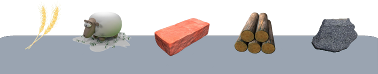
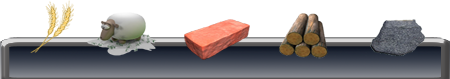
hud changes, clickable menu button

diff --git a/src/Expanze/Screens/GameplayScreen.cs b/src/Expanze/Screens/GameplayScreen.cs
@@ -37,6 +37,7 @@ namespace Expanze
         List<GameComponent> gameComponents = new List<GameComponent>();
         List<GuiComponent> guiComponents = new List<GuiComponent>();
 
+
         Vector2 playerPosition = new Vector2(100, 100);
         Vector2 enemyPosition = new Vector2(100, 100);
 
@@ -86,7 +87,7 @@ namespace Expanze
 
             ButtonComponent changeTurnButton = new ButtonComponent(ScreenManager.Game, ScreenManager.Game.GraphicsDevice.Viewport.Width - 180, ScreenManager.Game.GraphicsDevice.Viewport.Height - 50, GameState.gameFont, 150, 40, "button");
             guiComponents.Add(changeTurnButton);
-            ButtonComponent menuHUDButton = new ButtonComponent(ScreenManager.Game, 10, 10, GameState.gameFont, 232, 225, "menu_button");
+            MenuButtonComponent menuHUDButton = new MenuButtonComponent(ScreenManager.Game, 10, 10, GameState.gameFont, 232, 225, "menu_button");
             guiComponents.Add(menuHUDButton);
             MaterialsHUDComponent materialsHUDComp = new MaterialsHUDComponent(ScreenManager.Game, ScreenManager.Game.GraphicsDevice.Viewport.Width/4, ScreenManager.Game.GraphicsDevice.Viewport.Height - 78, GameState.gameFont, 232, 225, "suroviny_hud");
             guiComponents.Add(materialsHUDComp);
@@ -207,7 +208,7 @@ namespace Expanze
             bool gamePadDisconnected = !gamePadState.IsConnected &&
                                        input.GamePadWasConnected[playerIndex];
 
-            if (input.IsPauseGame(ControllingPlayer) || gamePadDisconnected)
+            if (input.IsPauseGame(ControllingPlayer) || gamePadDisconnected || GameMaster.getInstance().isPaused())
             {
                 ScreenManager.AddScreen(new PauseMenuScreen(), ControllingPlayer);
             }

diff --git a/src/Expanze/Gameplay/GameMaster.cs b/src/Expanze/Gameplay/GameMaster.cs
@@ -14,6 +14,7 @@ namespace Expanze
         private Player activePlayer;
         private int activePlayerIndex;
         private State state;
+        private bool paused = false;
 
         private static GameMaster instance = null;
 
@@ -62,6 +63,21 @@ namespace Expanze
             {
                 player.addSources(100, 100, 100, 100, 100);
             }
+        }
+
+        public bool isPaused()
+        {
+            if (this.paused)
+            {
+                this.paused = false;
+                return true;
+            }
+            return false;
+        }
+
+        public void setPaused()
+        {
+            this.paused = true;
         }
 
         public bool changeActivePlaye()

diff --git a/src/Expanze/Game/ButtonComponent.cs b/src/Expanze/Game/ButtonComponent.cs
@@ -10,13 +10,13 @@ namespace Expanze
 {
     class ButtonComponent : GuiComponent
     {
-        MouseState mouseState;
+        protected MouseState mouseState;
 
-        int mousex;
-        int mousey;
+        protected int mousex;
+        protected int mousey;
 
         //button still pressed
-        bool pressed = false;
+        protected bool pressed = false;
 
         public ButtonComponent(Game game, int x, int y, SpriteFont font, int width, int height, String texture) 
             : base(game,x,y,font,width,height,texture) {}

diff --git a/src/Expanze/Game/MaterialsHUDComponent.cs b/src/Expanze/Game/MaterialsHUDComponent.cs
@@ -12,8 +12,8 @@ namespace Expanze
     {
 
         //space between texts in HUD of materials
-        const int space = 80;
-        int start = 30;
+        const int space = 90;
+        int start = 40;
 
         public MaterialsHUDComponent(Game game, int x, int y, SpriteFont font, int width, int height, String texture) 
             : base(game,x,y,font,width,height,texture) {}

diff --git a/src/Expanze/Gameplay/SourceCost.cs b/src/Expanze/Gameplay/SourceCost.cs
@@ -3,7 +3,7 @@ using System.Collections.Generic;
 using System.Linq;
 using System.Text;
 
-namespace Expanze.Gameplay
+namespace Expanze
 {
     class SourceCost
     {

diff --git a/src/Expanze/Settings.cs b/src/Expanze/Settings.cs
@@ -3,7 +3,6 @@ using System.Collections.Generic;
 using System.Linq;
 using System.Text;
 using Microsoft.Xna.Framework;
-using Expanze.Gameplay;
 
 namespace Expanze
 {

diff --git a/src/Expanze/Gameplay/Player.cs b/src/Expanze/Gameplay/Player.cs
@@ -2,7 +2,6 @@
 using System.Collections.Generic;
 using System.Linq;
 using System.Text;
-using Expanze.Gameplay;
 
 namespace Expanze
 {
